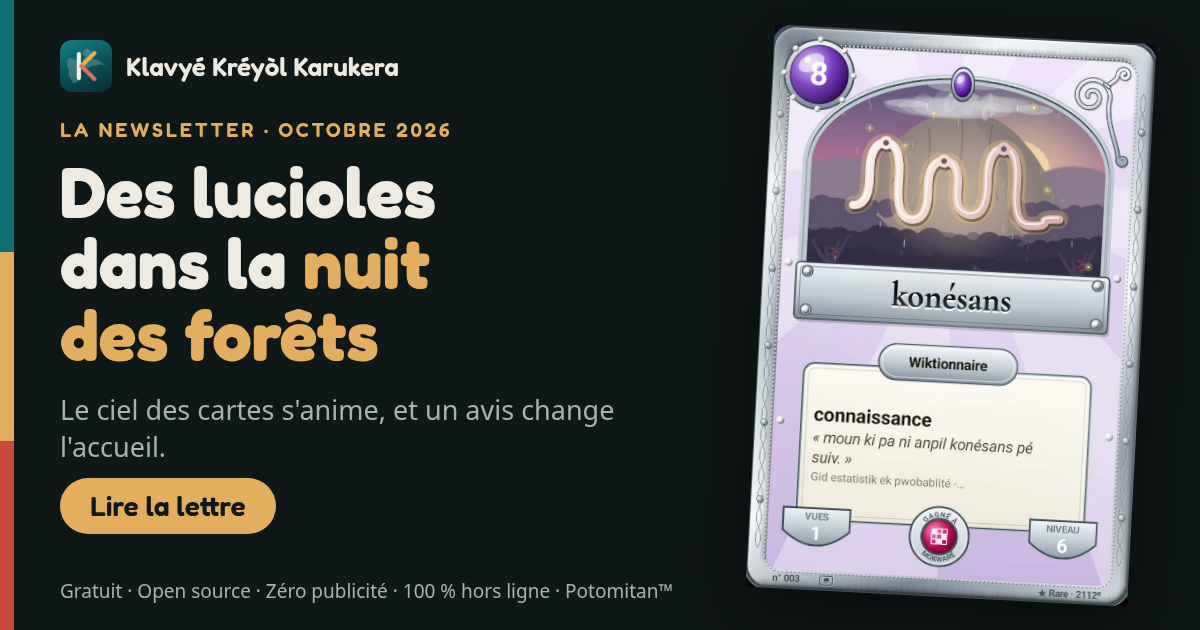
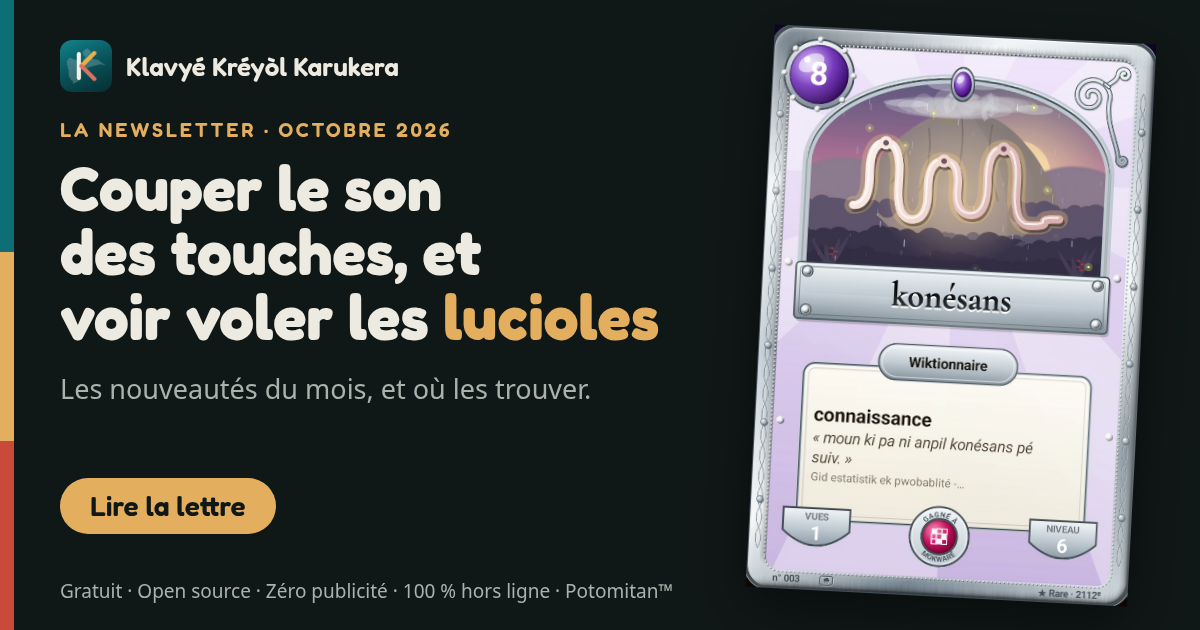
docs(newsletter): l'édition d'octobre réécrite pour qui n'est pas technophile
Le réglage du son passe en premier, les cartes sont expliquées avant les
lucioles, chaque rubrique dit où trouver la nouveauté dans l'application,
et un encadré rappelle les trois gestes du clavier. La version mail, la
vignette et l'archive suivent.

Claude-Session: https://claude.ai/code/session_01Nj5iYdmmL8cvf9oBtQ2Qqm

Changed region(s): [[0.0308, 0.2413, 0.555, 0.573], [0.0308, 0.6032, 0.5242, 0.6635], [0.0308, 0.6937, 0.1542, 0.7238]]

diff --git a/docs/newsletter/2026-10-mail.html b/docs/newsletter/2026-10-mail.html
@@ -31,48 +31,91 @@
   Klavyé Kréyòl Karukera · Octobre 2026
 </td></tr>
 
-<tr><td style="padding:14px 32px 0; font-family:Arial, Helvetica, sans-serif; font-size:34px; line-height:38px; font-weight:bold; color:#1C2624;">
-  Des lucioles dans la <span style="color:#C94A3B;">nuit des forêts</span>
+<tr><td style="padding:14px 32px 0; font-family:Arial, Helvetica, sans-serif; font-size:32px; line-height:37px; font-weight:bold; color:#1C2624;">
+  Couper le son des touches, et voir voler les <span style="color:#C94A3B;">lucioles</span>
 </td></tr>
 
 <tr><td style="padding:14px 32px 0; font-family:Georgia, 'Times New Roman', serif; font-size:18px; line-height:28px; color:#4B5750;">
-  Le ciel des cartes s'anime, la pluie tombe, et un avis laissé sur le Play Store change l'accueil de l'application.
+  Deux nouveautés ce mois-ci : le son et la vibration des touches se coupent plus facilement, et des lucioles volent sur les cartes du jeu. Voici ce que c'est, et où le trouver.
 </td></tr>
 
-<!-- Accroche -->
-<tr><td style="padding:26px 32px 0;">
-  <p style="margin:0; font-family:Georgia, 'Times New Roman', serif; font-size:17px; line-height:27px; color:#1C2624;">Dans le dictionnaire de Klavyé Kréyòl, la luciole s'appelle <i style="color:#0E6E76; font-weight:bold;">klendenden</i>. Depuis cette semaine, elle vole aussi sur les cartes du carnet : le soir et la nuit, dans les treize lieux de forêt, de La Soufrière à Matouba.</p>
+<!-- Le clavier : réglages -->
+<tr><td style="padding:30px 32px 0;">
+  <div style="font-family:Arial, Helvetica, sans-serif; font-size:11px; letter-spacing:1.2px; text-transform:uppercase; font-weight:bold; color:#0E6E76;">Le clavier</div>
+  <div style="padding-top:8px; font-family:Arial, Helvetica, sans-serif; font-size:23px; line-height:28px; font-weight:bold; color:#1C2624;">Couper le son et la vibration des touches</div>
+  <p style="margin:10px 0 0; font-family:Georgia, 'Times New Roman', serif; font-size:17px; line-height:27px; color:#1C2624;">Cet avis a été laissé sur le Play Store :</p>
+</td></tr>
+<tr><td style="padding:12px 32px 0;">
+  <table role="presentation" width="100%" cellpadding="0" cellspacing="0" border="0" style="background:#DDEEEE;">
+    <tr><td style="padding:14px 18px; font-family:Georgia, 'Times New Roman', serif; font-size:17px; line-height:27px; font-style:italic; color:#1C2624;">«&nbsp;Bonne appli mais est-il possible d'enlever le son &amp; vibrations du clavier&nbsp;?&nbsp;»</td></tr>
+  </table>
+</td></tr>
+<tr><td style="padding:12px 32px 0;">
+  <p style="margin:0; font-family:Georgia, 'Times New Roman', serif; font-size:17px; line-height:27px; color:#1C2624;">C'était possible, mais le réglage était caché derrière une petite roue dentée, en haut de l'écran. Il a maintenant sa propre ligne, bien visible, sur la première page de l'application.</p>
+</td></tr>
+<tr><td align="center" style="padding:16px 32px 0;">
+  <img src="https://famibelle.github.io/KreyolKeyb/newsletter/2026-10/mail/reglages.jpg" width="536" alt="La ligne « Réglages du clavier » sur la première page de l'application, au-dessus de « Clavier installé »" style="display:block; width:100%; max-width:536px; height:auto; border:1px solid #DCDAD3;">
 </td></tr>
 <tr><td style="padding:16px 32px 0;">
-  <table role="presentation" width="100%" cellpadding="0" cellspacing="0" border="0" style="background:#F6E9D2; border-left:4px solid #C97F1E;">
+  <table role="presentation" width="100%" cellpadding="0" cellspacing="0" border="0" style="background:#DDEEEE;">
     <tr><td style="padding:14px 18px;">
-      <div style="font-family:Georgia, 'Times New Roman', serif; font-size:20px; line-height:28px; font-style:italic; color:#1C2624;">«&nbsp;Klendenden limé dé ti klou an tèt a-y&nbsp;»</div>
-      <div style="padding-top:4px; font-family:Arial, Helvetica, sans-serif; font-size:13px; color:#4B5750;">On lannuit Gwadloup</div>
+      <div style="font-family:Arial, Helvetica, sans-serif; font-size:15px; font-weight:bold; color:#0E6E76;">Où le trouver</div>
+      <div style="padding-top:4px; font-family:Georgia, 'Times New Roman', serif; font-size:17px; line-height:27px; color:#1C2624;">Ouvrez l'application Klavyé Kréyòl. Sur la première page (l'onglet Dékolaj), touchez «&nbsp;Réglages du clavier&nbsp;», juste au-dessus de «&nbsp;Clavier installé&nbsp;». Vous y choisissez le son et la vibration des touches, mais aussi le thème clair ou sombre et les suggestions.</div>
+    </td></tr>
+  </table>
+</td></tr>
+<tr><td style="padding:14px 32px 0;">
+  <p style="margin:0; font-family:Georgia, 'Times New Roman', serif; font-size:17px; line-height:27px; color:#1C2624;">Bon à savoir : ce réglage se fait dans l'application Klavyé Kréyòl, pas dans les réglages du téléphone.</p>
+  <p style="margin:12px 0 0; font-family:Georgia, 'Times New Roman', serif; font-size:17px; line-height:27px; color:#1C2624;"><i style="color:#0E6E76; font-weight:bold;">Mèsi</i> pour cet avis : c'est en lisant vos avis que l'application avance.</p>
+</td></tr>
+
+<tr><td style="padding:32px 32px 0;"><div style="border-top:1px solid #DCDAD3; font-size:0; line-height:0;">&nbsp;</div></td></tr>
+
+<!-- Les jeux -->
+<tr><td style="padding:26px 32px 0;">
+  <div style="font-family:Arial, Helvetica, sans-serif; font-size:11px; letter-spacing:1.2px; text-transform:uppercase; font-weight:bold; color:#0E6E76;">Les jeux</div>
+  <div style="padding-top:8px; font-family:Arial, Helvetica, sans-serif; font-size:23px; line-height:28px; font-weight:bold; color:#1C2624;">Vos mots deviennent des cartes</div>
+  <p style="margin:10px 0 0; font-family:Georgia, 'Times New Roman', serif; font-size:17px; line-height:27px; color:#1C2624;">En plus du clavier, l'application propose de petits jeux de mots en kréyòl : mots mêlés, mots croisés, phrases à trous. Chaque mot que vous trouvez devient une carte, comme une carte à collectionner. Elle porte le mot, son sens en français, une phrase d'un auteur où il apparaît, et un paysage de Guadeloupe.</p>
+</td></tr>
+<tr><td style="padding:16px 32px 0;">
+  <table role="presentation" width="100%" cellpadding="0" cellspacing="0" border="0" style="background:#DDEEEE;">
+    <tr><td style="padding:14px 18px;">
+      <div style="font-family:Arial, Helvetica, sans-serif; font-size:15px; font-weight:bold; color:#0E6E76;">Où le trouver</div>
+      <div style="padding-top:4px; font-family:Georgia, 'Times New Roman', serif; font-size:17px; line-height:27px; color:#1C2624;">Dans l'application, touchez l'onglet Jé pour jouer. Vos cartes sont rangées dans Sanblé : touchez «&nbsp;Ouvrir&nbsp;» sur le bandeau en haut de l'onglet Jé, puis touchez une carte pour l'ouvrir en grand.</div>
     </td></tr>
   </table>
 </td></tr>
 
 <tr><td style="padding:32px 32px 0;"><div style="border-top:1px solid #DCDAD3; font-size:0; line-height:0;">&nbsp;</div></td></tr>
 
-<!-- Le carnet -->
+<!-- Les lucioles -->
 <tr><td style="padding:26px 32px 0;">
-  <div style="font-family:Arial, Helvetica, sans-serif; font-size:11px; letter-spacing:1.2px; text-transform:uppercase; font-weight:bold; color:#0E6E76;">Le carnet</div>
+  <div style="font-family:Arial, Helvetica, sans-serif; font-size:11px; letter-spacing:1.2px; text-transform:uppercase; font-weight:bold; color:#0E6E76;">Les cartes</div>
   <div style="padding-top:8px; font-family:Arial, Helvetica, sans-serif; font-size:23px; line-height:28px; font-weight:bold; color:#1C2624;">Des lucioles dans la nuit des forêts</div>
-  <p style="margin:10px 0 0; font-family:Georgia, 'Times New Roman', serif; font-size:17px; line-height:27px; color:#1C2624;">Chaque mot gagné dans les jeux de l'application devient une carte, et chaque carte s'ouvre sur un lieu de Guadeloupe, à l'heure de sa rareté : le matin pour un mot courant, la nuit pour un mot très rare. Dans les lieux de <i style="color:#0E6E76; font-weight:bold;">granbwa</i> (la forêt), des lucioles volent maintenant lentement au-dessus des arbres. Leur lumière s'allume puis s'éteint, chacune à son rythme, et elles volent aussi sous la pluie de l'hivernage.</p>
+  <p style="margin:10px 0 0; font-family:Georgia, 'Times New Roman', serif; font-size:17px; line-height:27px; color:#1C2624;">Le paysage d'une carte n'est pas pris à n'importe quelle heure : le matin pour un mot courant, le soir ou la nuit pour un mot rare. Quand ce paysage est une forêt, comme La Soufrière ou Matouba, des lucioles volent maintenant au-dessus des arbres. Leur petite lumière s'allume et s'éteint doucement, chacune à son rythme, même sous la pluie.</p>
+  <p style="margin:12px 0 0; font-family:Georgia, 'Times New Roman', serif; font-size:17px; line-height:27px; color:#1C2624;">En kréyòl, la luciole se dit <i style="color:#0E6E76; font-weight:bold;">klendenden</i>, et un auteur l'a écrit ainsi :</p>
+</td></tr>
+<tr><td style="padding:14px 32px 0;">
+  <table role="presentation" width="100%" cellpadding="0" cellspacing="0" border="0" style="background:#F6E9D2; border-left:4px solid #C97F1E;">
+    <tr><td style="padding:14px 18px;">
+      <div style="font-family:Georgia, 'Times New Roman', serif; font-size:20px; line-height:28px; font-style:italic; color:#1C2624;">«&nbsp;Klendenden limé dé ti klou an tèt a&#8209;y&nbsp;»</div>
+      <div style="padding-top:4px; font-family:Arial, Helvetica, sans-serif; font-size:13px; color:#4B5750;">On lannuit Gwadloup</div>
+    </td></tr>
+  </table>
 </td></tr>
 <tr><td align="center" style="padding:18px 32px 0;">
   <img src="https://famibelle.github.io/KreyolKeyb/newsletter/2026-10/mail/lucioles.jpg" width="300" alt="La carte « konésans » ouverte, le soir à La Soufrière sous la pluie, des lucioles vert-jaune au-dessus de la forêt" style="display:block; width:100%; max-width:300px; height:auto; border:0;">
-  <div style="padding-top:6px; font-family:Arial, Helvetica, sans-serif; font-size:13px; line-height:19px; color:#4B5750;">La carte «&nbsp;konésans&nbsp;», le soir à La Soufrière, sous la pluie de l'hivernage.</div>
+  <div style="padding-top:6px; font-family:Arial, Helvetica, sans-serif; font-size:13px; line-height:19px; color:#4B5750;">La carte du mot «&nbsp;konésans&nbsp;» (connaissance) : un mot rare, donc un paysage du soir, ici à La Soufrière sous la pluie.</div>
 </td></tr>
 
 <tr><td style="padding:32px 32px 0;"><div style="border-top:1px solid #DCDAD3; font-size:0; line-height:0;">&nbsp;</div></td></tr>
 
 <!-- Le ciel des cartes -->
 <tr><td style="padding:26px 32px 0;">
-  <div style="font-family:Arial, Helvetica, sans-serif; font-size:11px; letter-spacing:1.2px; text-transform:uppercase; font-weight:bold; color:#0E6E76;">Le ciel des cartes</div>
-  <div style="padding-top:8px; font-family:Arial, Helvetica, sans-serif; font-size:23px; line-height:28px; font-weight:bold; color:#1C2624;">Les étoiles scintillent, la pluie tombe</div>
-  <p style="margin:10px 0 0; font-family:Georgia, 'Times New Roman', serif; font-size:17px; line-height:27px; color:#1C2624;">Sur une carte ouverte de nuit, les étoiles scintillent, chacune à son rythme, et glissent avec le <i style="color:#0E6E76; font-weight:bold;">syèl</i> (le ciel) quand on penche le téléphone. La <i style="color:#0E6E76; font-weight:bold;">lapli</i> (la pluie) de l'hivernage tombe aussi sur les cartes gagnées à la Toussaint ou pendant les Chanté Nwèl, devant les bougies et les guirlandes.</p>
-  <p style="margin:12px 0 0; font-family:Georgia, 'Times New Roman', serif; font-size:17px; line-height:27px; color:#1C2624;">Le cimetière de Morne-à-l'Eau a été redessiné d'après photo : le morne couvert de gradins de caveaux blancs au damier noir et blanc, chacun avec son pignon et sa croix, et des bougies qui s'allument le soir.</p>
+  <div style="font-family:Arial, Helvetica, sans-serif; font-size:11px; letter-spacing:1.2px; text-transform:uppercase; font-weight:bold; color:#0E6E76;">Les cartes</div>
+  <div style="padding-top:8px; font-family:Arial, Helvetica, sans-serif; font-size:23px; line-height:28px; font-weight:bold; color:#1C2624;">Un ciel étoilé, et Morne-à-l'Eau redessiné</div>
+  <p style="margin:10px 0 0; font-family:Georgia, 'Times New Roman', serif; font-size:17px; line-height:27px; color:#1C2624;">Sur une carte de nuit, les étoiles scintillent. Penchez doucement le téléphone : le paysage bouge un peu, comme si vous regardiez par une fenêtre.</p>
+  <p style="margin:12px 0 0; font-family:Georgia, 'Times New Roman', serif; font-size:17px; line-height:27px; color:#1C2624;">Le cimetière de Morne-à-l'Eau a été redessiné d'après photo, avec ses caveaux blancs au damier noir et blanc, et des bougies qui s'allument le soir.</p>
 </td></tr>
 <tr><td style="padding:18px 32px 0;">
   <table role="presentation" width="100%" cellpadding="0" cellspacing="0" border="0"><tr>
@@ -87,33 +130,22 @@
   </tr></table>
 </td></tr>
 
-<tr><td style="padding:32px 32px 0;"><div style="border-top:1px solid #DCDAD3; font-size:0; line-height:0;">&nbsp;</div></td></tr>
-
-<!-- L'accueil -->
-<tr><td style="padding:26px 32px 0;">
-  <div style="font-family:Arial, Helvetica, sans-serif; font-size:11px; letter-spacing:1.2px; text-transform:uppercase; font-weight:bold; color:#0E6E76;">L'accueil</div>
-  <div style="padding-top:8px; font-family:Arial, Helvetica, sans-serif; font-size:23px; line-height:28px; font-weight:bold; color:#1C2624;">Un avis, une ligne de plus sur l'accueil</div>
-  <p style="margin:10px 0 0; font-family:Georgia, 'Times New Roman', serif; font-size:17px; line-height:27px; color:#1C2624;">Cet avis a été laissé sur le Play Store :</p>
-</td></tr>
-<tr><td style="padding:12px 32px 0;">
-  <table role="presentation" width="100%" cellpadding="0" cellspacing="0" border="0" style="background:#DDEEEE;">
-    <tr><td style="padding:14px 18px; font-family:Georgia, 'Times New Roman', serif; font-size:17px; line-height:27px; font-style:italic; color:#1C2624;">«&nbsp;Bonne appli mais est-il possible d'enlever le son &amp; vibrations du clavier&nbsp;?&nbsp;»</td></tr>
+<!-- Le clavier en trois gestes -->
+<tr><td style="padding:32px 32px 0;">
+  <table role="presentation" width="100%" cellpadding="0" cellspacing="0" border="0" style="background:#F6E9D2;">
+    <tr><td style="padding:18px 20px;">
+      <div style="font-family:Arial, Helvetica, sans-serif; font-size:20px; line-height:26px; font-weight:bold; color:#1C2624;">Le clavier en trois gestes</div>
+      <div style="padding-top:10px; font-family:Georgia, 'Times New Roman', serif; font-size:17px; line-height:27px; color:#1C2624;">
+        <b style="color:#C97F1E;">1.</b> <b>Touchez un mot proposé</b> dans la barre au-dessus des lettres : il s'écrit en entier.<br>
+        <b style="color:#C97F1E;">2.</b> <b>Appuyez longtemps sur une lettre</b> pour trouver ses accents : sur le e pour é, è, ê, sur le o pour ò.<br>
+        <b style="color:#C97F1E;">3.</b> <b>Glissez le doigt sur la barre d'espace</b> vers la gauche ou la droite pour déplacer le curseur dans votre texte.
+      </div>
+    </td></tr>
   </table>
 </td></tr>
-<tr><td style="padding:12px 32px 0;">
-  <p style="margin:0; font-family:Georgia, 'Times New Roman', serif; font-size:17px; line-height:27px; color:#1C2624;">Le réglage existait déjà, mais il était bien caché derrière une petite roue dentée. Une ligne «&nbsp;Réglages du clavier&nbsp;» apparaît donc désormais sur l'accueil, juste au-dessus de «&nbsp;Clavier installé&nbsp;». Elle mène au son et à la vibration des touches, au thème et aux suggestions.</p>
-</td></tr>
-<tr><td align="center" style="padding:16px 32px 0;">
-  <img src="https://famibelle.github.io/KreyolKeyb/newsletter/2026-10/mail/reglages.jpg" width="536" alt="La ligne « Réglages du clavier » sur l'accueil de l'application" style="display:block; width:100%; max-width:536px; height:auto; border:1px solid #DCDAD3;">
-</td></tr>
-<tr><td style="padding:14px 32px 0;">
-  <p style="margin:0; font-family:Georgia, 'Times New Roman', serif; font-size:17px; line-height:27px; color:#1C2624;"><i style="color:#0E6E76; font-weight:bold;">Mèsi</i> pour cet avis : c'est en lisant vos avis que l'application avance.</p>
-</td></tr>
-
-<tr><td style="padding:32px 32px 0;"><div style="border-top:1px solid #DCDAD3; font-size:0; line-height:0;">&nbsp;</div></td></tr>
 
 <!-- Appel -->
-<tr><td style="padding:26px 32px 0; font-family:Arial, Helvetica, sans-serif; font-size:20px; line-height:27px; font-weight:bold; color:#1C2624;">
+<tr><td style="padding:30px 32px 0; font-family:Arial, Helvetica, sans-serif; font-size:20px; line-height:27px; font-weight:bold; color:#1C2624;">
   An kréyòl nou ka palé, an kréyòl nou ka maké.
 </td></tr>
 <tr><td style="padding:16px 32px 0;">
@@ -133,7 +165,7 @@
 <tr><td style="padding:20px 32px 32px; font-family:Arial, Helvetica, sans-serif; font-size:13px; line-height:20px; color:#4B5750;">
   Klavyé Kréyòl Karukera, sur Android. Version 23.2.2.<br>
   Gratuit · open source (MIT) · zéro publicité · 100&nbsp;% hors ligne.<br><br>
-  Une idée, un mot qui manque ? <a href="https://famibelle.github.io/KreyolKeyb/feedbacks_form.html" style="color:#0E6E76;">Écrivez-nous</a>. Essayez le clavier sans l'installer avec le <a href="https://famibelle.github.io/KreyolKeyb/simulateur.html" style="color:#0E6E76;">simulateur</a>.<br>
+  Une question, un mot qui manque ? <a href="https://famibelle.github.io/KreyolKeyb/feedbacks_form.html" style="color:#0E6E76;">Écrivez-nous</a>. Le <a href="https://famibelle.github.io/KreyolKeyb/guide.html" style="color:#0E6E76;">guide d'installation</a> reprend tout pas à pas, et le <a href="https://famibelle.github.io/KreyolKeyb/simulateur.html" style="color:#0E6E76;">simulateur</a> permet d'essayer le clavier sans l'installer.<br>
   <a href="https://famibelle.github.io/KreyolKeyb/newsletter/2026-10.html" style="color:#0E6E76;">Lire cette lettre en ligne</a> · <a href="https://famibelle.github.io/KreyolKeyb/newsletter/" style="color:#0E6E76;">Toutes les newsletters</a><br><br>
   Potomitan™, Teknoloji pou tout moun.
 </td></tr>

diff --git a/docs/newsletter/2026-10.html b/docs/newsletter/2026-10.html
@@ -4,21 +4,21 @@
 <meta charset="utf-8">
 <meta name="viewport" content="width=device-width, initial-scale=1, viewport-fit=cover">
 <title>Klavyé Kréyòl, octobre 2026</title>
-<meta name="description" content="Des lucioles dans la nuit des forêts, un ciel étoilé sur les cartes, et un avis du Play Store qui change l'accueil : les nouveautés d'octobre du clavier créole guadeloupéen.">
+<meta name="description" content="Le son et la vibration des touches se coupent plus facilement, et des lucioles volent sur les cartes du jeu : les nouveautés d'octobre du clavier créole guadeloupéen, et où les trouver.">
 <link rel="icon" type="image/x-icon" href="../favicon.ico">
 <meta property="og:type" content="article">
 <meta property="og:site_name" content="Klavyé Kréyòl Karukera">
 <meta property="og:locale" content="fr_FR">
-<meta property="og:title" content="Des lucioles dans la nuit des forêts">
-<meta property="og:description" content="Des lucioles dans la nuit des forêts, un ciel étoilé sur les cartes, et un avis du Play Store qui change l'accueil : les nouveautés d'octobre du clavier créole guadeloupéen.">
+<meta property="og:title" content="Couper le son des touches, et voir voler les lucioles">
+<meta property="og:description" content="Le son et la vibration des touches se coupent plus facilement, et des lucioles volent sur les cartes du jeu : les nouveautés d'octobre du clavier créole guadeloupéen, et où les trouver.">
 <meta property="og:url" content="https://famibelle.github.io/KreyolKeyb/newsletter/2026-10.html">
 <meta property="og:image" content="https://famibelle.github.io/KreyolKeyb/newsletter/2026-10/partage.png">
 <meta property="og:image:width" content="1200">
 <meta property="og:image:height" content="630">
-<meta property="og:image:alt" content="Des lucioles dans la nuit des forêts : une carte du carnet, le soir à La Soufrière.">
+<meta property="og:image:alt" content="Couper le son des touches, et voir voler les lucioles : une carte du jeu, le soir à La Soufrière.">
 <meta name="twitter:card" content="summary_large_image">
-<meta name="twitter:title" content="Des lucioles dans la nuit des forêts">
-<meta name="twitter:description" content="Des lucioles dans la nuit des forêts, un ciel étoilé sur les cartes, et un avis du Play Store qui change l'accueil : les nouveautés d'octobre du clavier créole guadeloupéen.">
+<meta name="twitter:title" content="Couper le son des touches, et voir voler les lucioles">
+<meta name="twitter:description" content="Le son et la vibration des touches se coupent plus facilement, et des lucioles volent sur les cartes du jeu : les nouveautés d'octobre du clavier créole guadeloupéen, et où les trouver.">
 <meta name="twitter:image" content="https://famibelle.github.io/KreyolKeyb/newsletter/2026-10/partage.png">
 <link rel="preconnect" href="https://fonts.googleapis.com">
 <link rel="stylesheet" href="https://fonts.googleapis.com/css2?family=Fredoka:wght@500;600;700&display=swap">
@@ -27,9 +27,11 @@
 <script defer src="../assets/theme.js"></script>
 <style>
 /* Une édition de la newsletter : une lettre d'une colonne, comme un courrier.
-   Les couleurs viennent de la palette de communication (../assets/theme.css),
-   Fredoka pour les titres. Les captures sont celles de la page Nouveautés,
-   référencées dans ../Screenshots/ et jamais retouchées. */
+   Écrite pour qui n'est pas technophile : chaque rubrique explique avant de
+   raconter, et finit par « Où le trouver ». Les couleurs viennent de la
+   palette de communication (../assets/theme.css), Fredoka pour les titres.
+   Les captures sont celles de la page Nouveautés, référencées dans
+   ../Screenshots/ et jamais retouchées. */
 *,*::before,*::after{box-sizing:border-box}
 body{margin:0; background:var(--paper); color:var(--ink); font:17px/1.65 -apple-system,"Segoe UI","Helvetica Neue",Arial,sans-serif; padding:32px 16px 56px}
 img{max-width:100%}
@@ -63,6 +65,12 @@ figcaption{font-size:14px; line-height:1.45; color:var(--ink-soft); text-align:c
 .paire img{width:100%}
 
 .avis{background:var(--sea-soft); border-radius:10px; padding:16px 20px; font-style:italic}
+.ou{background:var(--sea-soft); border-radius:10px; padding:14px 18px; display:grid; gap:4px}
+.ou strong{font:600 15px/1.2 "Fredoka",sans-serif; color:var(--sea); letter-spacing:.02em}
+.gestes{background:var(--sun-soft); border-radius:10px; padding:20px 22px; display:grid; gap:12px}
+.gestes h2{font-size:21px}
+.gestes ol{margin:0; padding-left:1.3em; display:grid; gap:8px}
+.gestes li::marker{font:600 17px "Fredoka",sans-serif; color:var(--sun)}
 
 .appel{display:grid; gap:14px; justify-items:start}
 .slogan{font:600 21px/1.3 "Fredoka",sans-serif; margin:0}
@@ -84,37 +92,63 @@ footer a{color:var(--sea)}
 
     <header>
       <div class="tete"><span>Klavyé Kréyòl Karukera</span><span>Octobre 2026</span></div>
-      <h1>Des lucioles dans la <em>nuit des forêts</em></h1>
-      <p class="chapo">Le ciel des cartes s'anime, la pluie tombe, et un avis laissé sur le Play Store change l'accueil de l'application.</p>
+      <h1>Couper le son des touches, et voir voler les <em>lucioles</em></h1>
+      <p class="chapo">Deux nouveautés ce mois-ci : le son et la vibration des touches se coupent plus facilement, et des lucioles volent sur les cartes du jeu. Voici ce que c'est, et où le trouver.</p>
     </header>
 
     <section>
-      <p>Dans le dictionnaire de Klavyé Kréyòl, la luciole s'appelle <span class="mot">klendenden</span>. Depuis cette semaine, elle vole aussi sur les cartes du carnet : le soir et la nuit, dans les treize lieux de forêt, de La Soufrière à Matouba.</p>
-      <blockquote lang="gcf">
-        <p>«&nbsp;Klendenden limé dé ti klou an tèt <span style="white-space:nowrap">a-y&nbsp;»</span></p>
-        <cite>On lannuit Gwadloup</cite>
-      </blockquote>
+      <span class="etiquette">Le clavier</span>
+      <h2>Couper le son et la vibration des touches</h2>
+      <p>Cet avis a été laissé sur le Play Store :</p>
+      <p class="avis">«&nbsp;Bonne appli mais est-il possible d'enlever le son &amp; vibrations du clavier&nbsp;?&nbsp;»</p>
+      <p>C'était possible, mais le réglage était caché derrière une petite roue dentée, en haut de l'écran. Il a maintenant sa propre ligne, bien visible, sur la première page de l'application.</p>
+      <figure>
+        <img class="large" src="../Screenshots/nouveaute_23.2.1_reglages_accueil.png" alt="La ligne « Réglages du clavier » sur la première page de l'application, au-dessus de « Clavier installé »" width="692" height="161" loading="lazy">
+      </figure>
+      <div class="ou">
+        <strong>Où le trouver</strong>
+        <p>Ouvrez l'application Klavyé Kréyòl. Sur la première page (l'onglet Dékolaj), touchez «&nbsp;Réglages du clavier&nbsp;», juste au-dessus de «&nbsp;Clavier installé&nbsp;». Vous y choisissez le son et la vibration des touches, mais aussi le thème clair ou sombre et les suggestions.</p>
+      </div>
+      <p>Bon à savoir : ce réglage se fait dans l'application Klavyé Kréyòl, pas dans les réglages du téléphone.</p>
+      <p><span class="mot">Mèsi</span> pour cet avis : c'est en lisant vos avis que l'application avance.</p>
     </section>
 
     <hr>
 
     <section>
-      <span class="etiquette">Le carnet</span>
+      <span class="etiquette">Les jeux</span>
+      <h2>Vos mots deviennent des cartes</h2>
+      <p>En plus du clavier, l'application propose de petits jeux de mots en kréyòl : mots mêlés, mots croisés, phrases à trous. Chaque mot que vous trouvez devient une carte, comme une carte à collectionner. Elle porte le mot, son sens en français, une phrase d'un auteur où il apparaît, et un paysage de Guadeloupe.</p>
+      <div class="ou">
+        <strong>Où le trouver</strong>
+        <p>Dans l'application, touchez l'onglet Jé pour jouer. Vos cartes sont rangées dans Sanblé : touchez «&nbsp;Ouvrir&nbsp;» sur le bandeau en haut de l'onglet Jé, puis touchez une carte pour l'ouvrir en grand.</p>
+      </div>
+    </section>
+
+    <hr>
+
+    <section>
+      <span class="etiquette">Les cartes</span>
       <h2>Des lucioles dans la nuit des forêts</h2>
-      <p>Chaque mot gagné dans les jeux de l'application devient une carte, et chaque carte s'ouvre sur un lieu de Guadeloupe, à l'heure de sa rareté : le matin pour un mot courant, la nuit pour un mot très rare. Dans les lieux de <span class="mot">granbwa</span> (la forêt), des lucioles volent maintenant lentement au-dessus des arbres. Leur lumière s'allume puis s'éteint, chacune à son rythme, et elles volent aussi sous la pluie de l'hivernage.</p>
+      <p>Le paysage d'une carte n'est pas pris à n'importe quelle heure : le matin pour un mot courant, le soir ou la nuit pour un mot rare. Quand ce paysage est une forêt, comme La Soufrière ou Matouba, des lucioles volent maintenant au-dessus des arbres. Leur petite lumière s'allume et s'éteint doucement, chacune à son rythme, même sous la pluie.</p>
+      <p>En kréyòl, la luciole se dit <span class="mot">klendenden</span>, et un auteur l'a écrit ainsi :</p>
+      <blockquote lang="gcf">
+        <p>«&nbsp;Klendenden limé dé ti klou an tèt <span style="white-space:nowrap">a-y&nbsp;»</span></p>
+        <cite>On lannuit Gwadloup</cite>
+      </blockquote>
       <figure>
         <img class="ecran" src="../Screenshots/nouveaute_23.2.2_lucioles.png" alt="La carte « konésans » ouverte, le soir à La Soufrière sous la pluie, des lucioles vert-jaune au-dessus de la forêt" width="692" height="1019" loading="lazy">
-        <figcaption>La carte « konésans », le soir à La Soufrière, sous la pluie de l'hivernage.</figcaption>
+        <figcaption>La carte du mot « konésans » (connaissance) : un mot rare, donc un paysage du soir, ici à La Soufrière sous la pluie.</figcaption>
       </figure>
     </section>
 
     <hr>
 
     <section>
-      <span class="etiquette">Le ciel des cartes</span>
-      <h2>Les étoiles scintillent, la pluie tombe</h2>
-      <p>Sur une carte ouverte de nuit, les étoiles scintillent, chacune à son rythme, et glissent avec le <span class="mot">syèl</span> (le ciel) quand on penche le téléphone. La <span class="mot">lapli</span> (la pluie) de l'hivernage tombe aussi sur les cartes gagnées à la Toussaint ou pendant les Chanté Nwèl, devant les bougies et les guirlandes.</p>
-      <p>Le cimetière de Morne-à-l'Eau a été redessiné d'après photo : le morne couvert de gradins de caveaux blancs au damier noir et blanc, chacun avec son pignon et sa croix, et des bougies qui s'allument le soir.</p>
+      <span class="etiquette">Les cartes</span>
+      <h2>Un ciel étoilé, et Morne-à-l'Eau redessiné</h2>
+      <p>Sur une carte de nuit, les étoiles scintillent. Penchez doucement le téléphone : le paysage bouge un peu, comme si vous regardiez par une fenêtre.</p>
+      <p>Le cimetière de Morne-à-l'Eau a été redessiné d'après photo, avec ses caveaux blancs au damier noir et blanc, et des bougies qui s'allument le soir.</p>
       <div class="paire">
         <figure>
           <img src="../Screenshots/nouveaute_23.2.0_etoiles.png" alt="La carte « balkon » ouverte, de nuit à la Pointe de la Grande Vigie, sous un ciel étoilé et un croissant de lune" width="692" height="995" loading="lazy">
@@ -127,21 +161,14 @@ footer a{color:var(--sea)}
       </div>
     </section>
 
-    <hr>
-
-    <section>
-      <span class="etiquette">L'accueil</span>
-      <h2>Un avis, une ligne de plus sur l'accueil</h2>
-      <p>Cet avis a été laissé sur le Play Store :</p>
-      <p class="avis">«&nbsp;Bonne appli mais est-il possible d'enlever le son &amp; vibrations du clavier&nbsp;?&nbsp;»</p>
-      <p>Le réglage existait déjà, mais il était bien caché derrière une petite roue dentée. Une ligne « Réglages du clavier » apparaît donc désormais sur l'accueil, juste au-dessus de « Clavier installé ». Elle mène au son et à la vibration des touches, au thème et aux suggestions.</p>
-      <figure>
-        <img class="large" src="../Screenshots/nouveaute_23.2.1_reglages_accueil.png" alt="La ligne « Réglages du clavier » sur l'accueil de l'application" width="692" height="161" loading="lazy">
-      </figure>
-      <p><span class="mot">Mèsi</span> pour cet avis : c'est en lisant vos avis que l'application avance.</p>
-    </section>
-
-    <hr>
+    <div class="gestes">
+      <h2>Le clavier en trois gestes</h2>
+      <ol>
+        <li><strong>Touchez un mot proposé</strong> dans la barre au-dessus des lettres : il s'écrit en entier.</li>
+        <li><strong>Appuyez longtemps sur une lettre</strong> pour trouver ses accents : sur le e pour é, è, ê, sur le o pour ò.</li>
+        <li><strong>Glissez le doigt sur la barre d'espace</strong> vers la gauche ou la droite pour déplacer le curseur dans votre texte.</li>
+      </ol>
+    </div>
 
     <div class="appel">
       <p class="slogan" lang="gcf">An kréyòl nou ka palé, an kréyòl nou ka maké.</p>
@@ -154,7 +181,7 @@ footer a{color:var(--sea)}
     <footer>
       <p>Klavyé Kréyòl Karukera, sur Android. Version 23.2.2.</p>
       <p>Gratuit · open source (MIT) · zéro publicité · 100&nbsp;% hors ligne.</p>
-      <p>Une idée, un mot qui manque ? <a href="../feedbacks_form.html">Écrivez-nous</a>. Essayez le clavier sans l'installer avec le <a href="../simulateur.html">simulateur</a>.</p>
+      <p>Une question, un mot qui manque ? <a href="../feedbacks_form.html">Écrivez-nous</a>. Le <a href="../guide.html">guide d'installation</a> reprend tout pas à pas, et le <a href="../simulateur.html">simulateur</a> permet d'essayer le clavier sans l'installer.</p>
       <p><a href="./">Toutes les newsletters</a></p>
       <p>Potomitan™, Teknoloji pou tout moun.</p>
     </footer>

diff --git a/docs/newsletter/index.html b/docs/newsletter/index.html
@@ -71,11 +71,11 @@ footer a{color:var(--sea)}
   <ol class="editions" reversed>
     <li class="edition">
       <a href="2026-10.html">
-        <img src="2026-10/partage.png" alt="Des lucioles dans la nuit des forêts : une carte du carnet, le soir à La Soufrière" width="1200" height="630">
+        <img src="2026-10/partage.png" alt="Couper le son des touches, et voir voler les lucioles : une carte du jeu, le soir à La Soufrière" width="1200" height="630">
         <div class="texte">
           <span class="date">Octobre 2026</span>
-          <h2>Des lucioles dans la nuit des forêts</h2>
-          <p>Des lucioles sur les cartes de forêt, un ciel étoilé, le cimetière de Morne-à-l'Eau redessiné, et un avis du Play Store qui change l'accueil.</p>
+          <h2>Couper le son des touches, et voir voler les lucioles</h2>
+          <p>Le son et la vibration des touches se coupent plus facilement, et des lucioles volent sur les cartes du jeu. Avec, pour chaque nouveauté, où la trouver.</p>
           <span class="lire">Lire la lettre →</span>
         </div>
       </a>

diff --git a/docs/newsletter/2026-10/partage.html b/docs/newsletter/2026-10/partage.html
@@ -37,7 +37,7 @@ body {
 }
 h1 {
   font-family:'Fredoka',sans-serif; font-weight:700;
-  font-size:70px; line-height:1.02; margin-bottom:22px;
+  font-size:62px; line-height:1.04; margin-bottom:22px;
 }
 h1 em { font-style:normal; color:var(--sun); }
 .accroche { font-size:27px; line-height:1.36; color:var(--ink-soft); width:600px; }
@@ -66,8 +66,8 @@ h1 em { font-style:normal; color:var(--sun); }
 <div class="texte">
   <div class="marque"><img src="../../assets/logo/klavye-logo-512.png" alt=""><span>Klavyé Kréyòl Karukera</span></div>
   <p class="edition">La newsletter · octobre 2026</p>
-  <h1>Des lucioles<br>dans la <em>nuit<br>des forêts</em></h1>
-  <p class="accroche">Le ciel des cartes s'anime, et un avis change l'accueil.</p>
+  <h1>Couper le son<br>des touches, et<br>voir voler les <em>lucioles</em></h1>
+  <p class="accroche">Les nouveautés du mois, et où les trouver.</p>
 </div>
 <div class="bouton">Lire la lettre</div>
 <p class="pied">Gratuit · Open source · Zéro publicité · 100 % hors ligne · Potomitan™</p>
